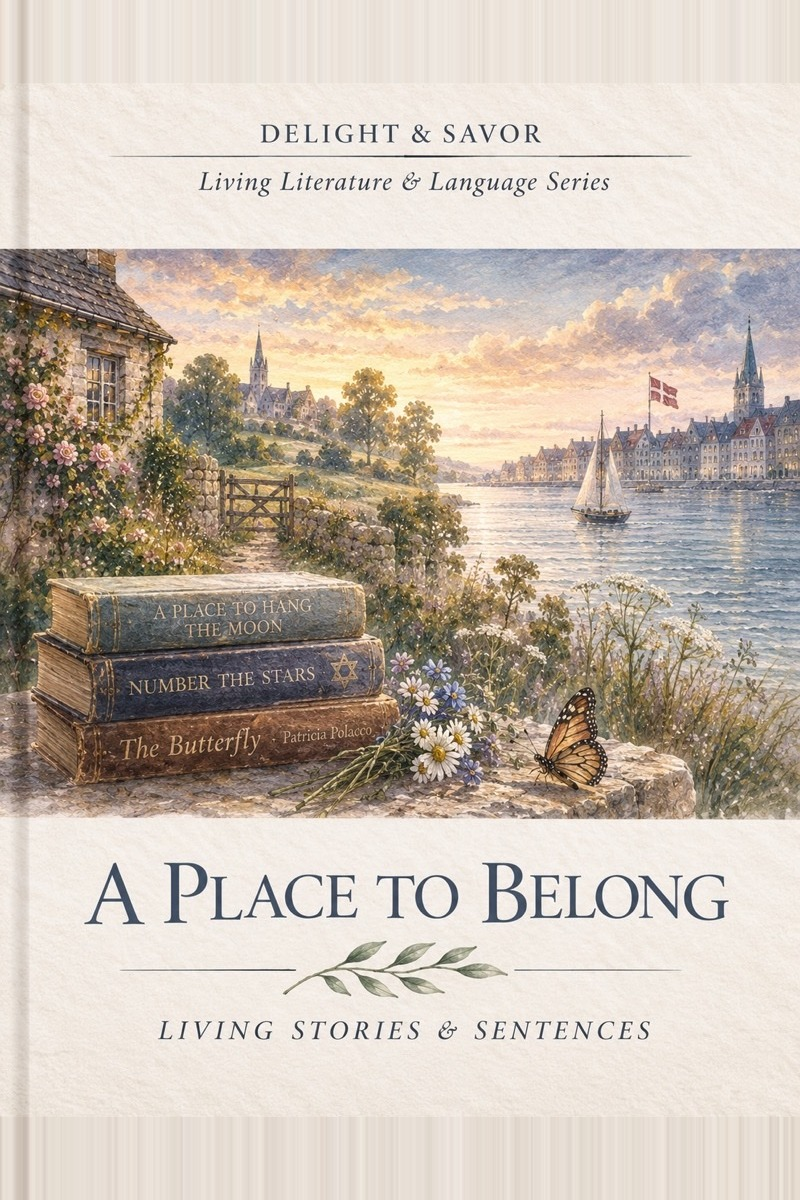
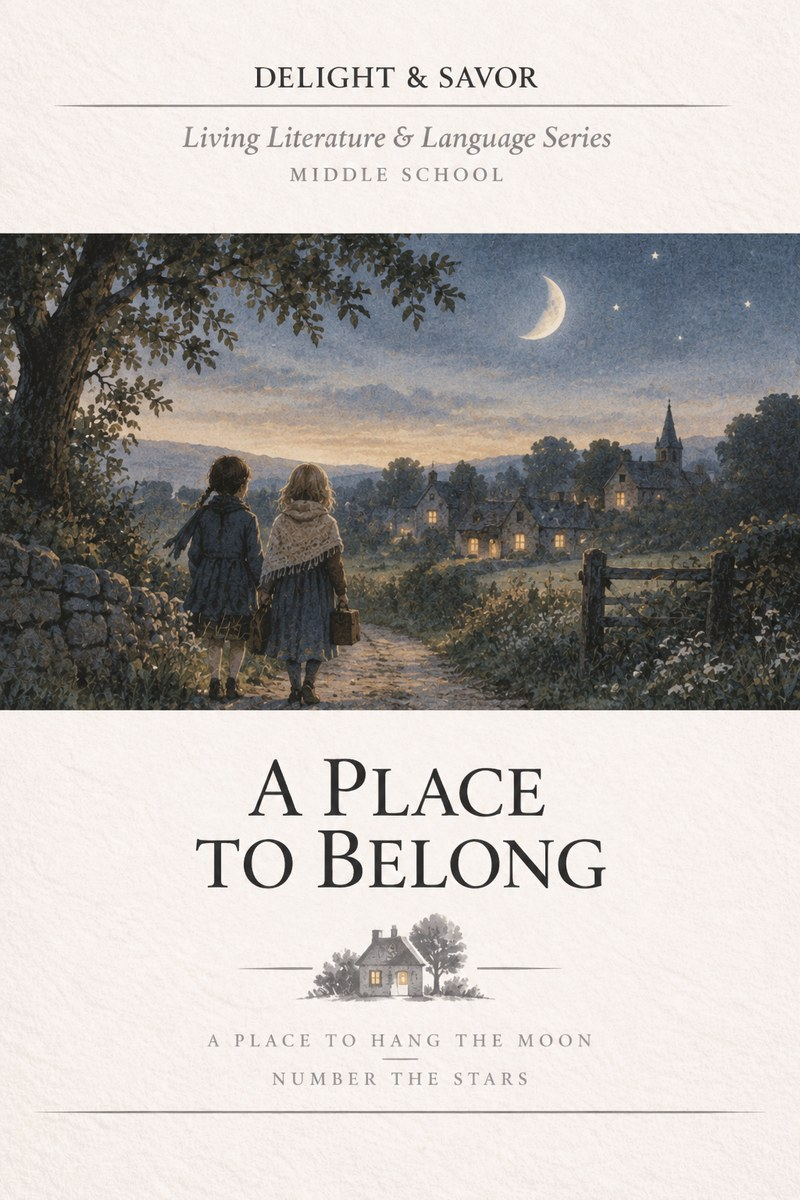
Match the site to the courses In the Margin actually offers
Margin's library is the source of truth
(margin.delightandsavor.com/preview.html) and it has been consolidated:
four courses, two of them year-long. The curriculum shelf still listed
the old seven, from before Macbeth and Wuthering Heights became terms
inside The Art of Tragedy, and Poetry, The Old Man and the Sea and A
Midsummer Night's Dream became terms inside The Art of Attention.

Three of those seven cards pointed at href="#" and did nothing:
Macbeth, Wuthering Heights and A Place to Belong.

The shelf is now the canonical four, with Margin's own names and
subtitles:

  The Art of Tragedy    Macbeth & Wuthering Heights          Grades 9-12
  The Art of Attention  Poetry, Old Man, Midsummer           Grades 9-12
  A Place to Belong     A Place to Hang the Moon, Number...  Grades 6-8
  Of Mice and Men       Summer Foundations                   Grades 8-11

Covers: Art of Attention and A Place to Belong were showing older
artwork. Both replaced from Margin's canonical assets — the new ones
name the books each course contains and carry the right level. Tragedy
and Of Mice and Men already matched. Resized to the site's 800x1200
convention, and both came out smaller than the files they replaced.

Links: the two year courses now open their course app rather than a
single book's preview page, and every In the Margin link across the
site moves from in-the-margin.netlify.app to margin.delightandsavor.com
— including the "Also from Delight & Savor" footers in index, lately
[…]

diff --git a/index.html b/index.html
@@ -1689,7 +1689,7 @@
     <div class="family-apps" style="max-width:880px;margin:0 auto 1.6rem;padding:1.85rem 0 0;border-top:1px solid var(--ds-rule);text-align:center;">
     <p style="font-family:'Cormorant Garamond',serif;font-variant:small-caps;letter-spacing:0.13em;font-size:0.785rem;color:var(--ds-ink-soft);margin:0 0 1.15rem;">Also from Delight &amp; Savor</p>
     <div style="display:flex;gap:2.75rem;justify-content:center;align-items:flex-start;flex-wrap:wrap;">
-      <a href="https://in-the-margin.netlify.app" target="_blank" rel="noopener" style="display:inline-flex;flex-direction:column;align-items:center;gap:.55rem;text-decoration:none;color:var(--ds-ink-soft);font-family:'Cormorant Garamond',serif;font-size:0.95rem;letter-spacing:0.02em;">
+      <a href="https://margin.delightandsavor.com" target="_blank" rel="noopener" style="display:inline-flex;flex-direction:column;align-items:center;gap:.55rem;text-decoration:none;color:var(--ds-ink-soft);font-family:'Cormorant Garamond',serif;font-size:0.95rem;letter-spacing:0.02em;">
[1 lines of base64/hex data omitted]
       </a>
       <a href="https://tend-ds.netlify.app" target="_blank" rel="noopener" style="display:inline-flex;flex-direction:column;align-items:center;gap:.55rem;text-decoration:none;color:var(--ds-ink-soft);font-family:'Cormorant Garamond',serif;font-size:0.95rem;letter-spacing:0.02em;">

diff --git a/lately.html b/lately.html
@@ -136,7 +136,7 @@
   <div class="family-apps" style="max-width:880px;margin:2.5rem auto 0;padding:2rem 1.5rem 3.5rem;border-top:1px solid var(--line);text-align:center;">
     <p style="font-family:'Cormorant Garamond',serif;font-variant:small-caps;letter-spacing:.18em;font-size:.72rem;color:var(--muted);margin:0 0 1.15rem;">Also from Delight &amp; Savor</p>
     <div style="display:flex;gap:2.75rem;justify-content:center;align-items:flex-start;flex-wrap:wrap;">
-      <a href="https://in-the-margin.netlify.app" target="_blank" rel="noopener" style="display:inline-flex;flex-direction:column;align-items:center;gap:.55rem;text-decoration:none;color:var(--slate);font-family:'Cormorant Garamond',serif;font-size:.95rem;letter-spacing:.02em;">
+      <a href="https://margin.delightandsavor.com" target="_blank" rel="noopener" style="display:inline-flex;flex-direction:column;align-items:center;gap:.55rem;text-decoration:none;color:var(--slate);font-family:'Cormorant Garamond',serif;font-size:.95rem;letter-spacing:.02em;">
[1 lines of base64/hex data omitted]
       </a>
       <a href="https://tend-ds.netlify.app" target="_blank" rel="noopener" style="display:inline-flex;flex-direction:column;align-items:center;gap:.55rem;text-decoration:none;color:var(--slate);font-family:'Cormorant Garamond',serif;font-size:.95rem;letter-spacing:.02em;">

diff --git a/curriculum.html b/curriculum.html
@@ -573,12 +573,53 @@ const LEVEL_LABEL = {
 };
 
 const COURSES = [
+  /* The canonical list is In the Margin's own library:
+     margin.delightandsavor.com/preview.html — four courses, two of them
+     year-long. Macbeth, Wuthering Heights, The Old Man and the Sea and
+     A Midsummer Night's Dream are terms inside those years now, not
+     separate courses, so they are no longer listed on their own. */
+  {
+    id:"art-of-tragedy",
+    title:"The Art of Tragedy",
+    author:"Macbeth & Wuthering Heights",   /* esc() escapes this at render */
+    level:"high",
+    meta:"Year-long · Grades 9–12",
+    status:"avail",
+    cloth:"#37322B",
+    image:"/images/art-of-tragedy.jpg",
+    link:"https://margin.delightandsavor.com/art-of-tragedy/",
+    blurb:"A year on ambition and disordered love — Shakespeare's tragedy in the fall, Brontë's in the spring."
+  },
+  {
+    id:"art-of-attention",
+    title:"The Art of Attention",
+    author:"Poetry, The Old Man and the Sea, A Midsummer Night’s Dream",
+    level:"high",
+    meta:"Year-long · Grades 9–12",
+    status:"avail",
+    cloth:"#4E6149",
+    image:"/images/art-of-attention.jpg",
+    link:"https://margin.delightandsavor.com/art-of-attention/",
+    blurb:"A year of looking closely — poetry and Hemingway in the fall, Shakespeare's comedy in the spring."
+  },
+  {
+    id:"lss",
+    title:"A Place to Belong",
+    author:"A Place to Hang the Moon · Number the Stars",
+    level:"middle",
+    meta:"Thirty weeks · Grades 6–8",
+    status:"self",
+    cloth:"#4C6B8C",
+    image:"/images/a-place-to-belong.jpg",
+    link:"https://margin.delightandsavor.com/living-stories-preview.html",
+    blurb:"Living books and real writing for the middle years, ending in a first research paper."
+  },
   {
     id:"summer-foundations",
-    title:"Summer Foundations",
-    author:"Of Mice and Men",
+    title:"Of Mice and Men",
+    author:"Summer Foundations · Steinbeck",
     level:"summer",
-    meta:"Steinbeck · 6 weeks",
+    meta:"Six weeks · Grades 8–11",
     status:"go",
     cloth:"#6B5240",
     image:"/images/cover-omam.jpg",
@@ -592,78 +633,6 @@ const COURSES = [
       cta:"Take a deeper look",
       ctaHref:"/Summer-Foundations-Sales-Page.html"
     }
-  },
-  {
-    id:"art-of-attention",
-    title:"Art of Attention",
-    author:"Poetry & The Old Man and the Sea",
-    level:"high",
-    meta:"Year-long · In the Margin",
-    status:"avail",
-    cloth:"#4E6149",
-    image:"/images/art-of-attention.jpg",
-    link:"https://in-the-margin.netlify.app/",
-    blurb:"A year of poetry and Hemingway — close reading, narration, the Great Conversation."
-  },
-  {
-    id:"macbeth",
-    title:"Macbeth",
-    author:"Shakespeare",
-    level:"high",
-    meta:"The Tragic Hero",
-    status:"avail",
-    cloth:"#37322B",
-    image:"/images/macbeth.jpg",
-    link:"#",
-    blurb:"Ambition and disordered loves, read beside Augustine."
-  },
-  {
-    id:"wuthering-heights",
-    title:"Wuthering Heights",
-    author:"Emily Brontë",
-    level:"high",
-    meta:"The Anti-Hero",
-    status:"avail",
-    cloth:"#5D6C61",
-    image:"/images/wuthering-heights.jpg",
-    link:"#",
-    blurb:"Wild, strange, unforgettable — the anti-hero studied in full."
-  },
-  {
-    id:"lss",
-    title:"A Place to Belong",
-    author:"Living Stories & Sentences · Series 1",
-    level:"middle",
-    meta:"32 weeks · self-paced",
-    status:"self",
-    cloth:"#4C6B8C",
-    image:"/images/a-place-to-belong.jpg",
-    link:"#",
-    blurb:"Living literature and sentence-craft for the middle years, fully self-paced."
-  },
-  {
-    id:"old-man",
-    title:"The Old Man and the Sea",
-    author:"Hemingway",
-    level:"high",
-    meta:"Companion study",
-    status:"soon",
-    cloth:"#6C6A47",
-    image:"/images/poetry-old-man.jpg",
-    link:"https://in-the-margin.netlify.app/old-man-preview.html",
-    blurb:"Hemingway’s sea, scaffolded for honors-ready writing. Coming Fall 2026."
-  },
-  {
-    id:"midsummer",
-    title:"A Midsummer Night’s Dream",
-    author:"Shakespeare",
-    level:"high",
-    meta:"Comedy",
-    status:"soon",
-    cloth:"#7C5F7C",
-    image:"/images/midsummer.jpg",
-    link:"https://in-the-margin.netlify.app/midsummer-preview.html",
-    blurb:"Shakespeare’s comedy, taught the Charlotte Mason way. Coming Jan 2027."
   }
 ];
 

diff --git a/Shop.html b/Shop.html
@@ -199,7 +199,7 @@ html body .ml-form-embedContainer .ml-form-embedWrapper .ml-form-embedBody
   <div class="grid">
 
     <!-- Year One · The Art of Tragedy -->
-    <a class="product" href="https://in-the-margin.netlify.app/macbeth-preview.html">
+    <a class="product" href="https://margin.delightandsavor.com/art-of-tragedy/">
       <div class="shot"><img src="images/art-of-tragedy.jpg" alt="The Art of Tragedy" loading="lazy"></div>
       <div class="body">
         <div class="tier">Grades 9&ndash;12 &middot; Year One</div>
@@ -217,7 +217,7 @@ html body .ml-form-embedContainer .ml-form-embedWrapper .ml-form-embedBody
     </a>
 
     <!-- Year Two · The Art of Attention -->
-    <a class="product" href="https://in-the-margin.netlify.app/old-man-preview.html">
+    <a class="product" href="https://margin.delightandsavor.com/art-of-attention/">
       <div class="shot"><img src="images/art-of-attention.jpg" alt="The Art of Attention" loading="lazy"></div>
       <div class="body">
         <div class="tier">Grades 9&ndash;12 &middot; Year Two</div>
@@ -235,7 +235,7 @@ html body .ml-form-embedContainer .ml-form-embedWrapper .ml-form-embedBody
     </a>
 
     <!-- Middle School · A Place to Belong -->
-    <a class="product" href="https://in-the-margin.netlify.app/living-stories-preview.html">
+    <a class="product" href="https://margin.delightandsavor.com/living-stories-preview.html">
       <div class="shot"><img src="images/a-place-to-belong.jpg" alt="A Place to Belong" loading="lazy"></div>
       <div class="body">
         <div class="tier">Middle School &middot; Living Stories &amp; Sentences</div>
@@ -275,7 +275,7 @@ html body .ml-form-embedContainer .ml-form-embedWrapper .ml-form-embedBody
   <div class="grid">
 
     <!-- LSS live cohort — OPEN -->
-    <a class="product" href="https://in-the-margin.netlify.app/enroll.html?unit=lss">
+    <a class="product" href="https://margin.delightandsavor.com/enroll.html?unit=lss">
       <div class="shot"><img src="images/a-place-to-belong.jpg" alt="Living Stories &amp; Sentences — Live Cohort" loading="lazy"></div>
       <div class="body">
         <div class="tier">Middle School &middot; Live with Kim</div>
@@ -292,7 +292,7 @@ html body .ml-form-embedContainer .ml-form-embedWrapper .ml-form-embedBody
     </a>
 
     <!-- Of Mice and Men live cohort — CLOSED, but the preview stays readable -->
-    <a class="product" href="https://in-the-margin.netlify.app/of-mice-and-men-preview.html">
+    <a class="product" href="https://margin.delightandsavor.com/of-mice-and-men-preview.html">
       <div class="shot"><img src="images/cover-omam.jpg" alt="Of Mice and Men — Live Cohort" loading="lazy"></div>
       <div class="body">
         <div class="tier">Summer &middot; Live with Kim</div>

diff --git a/netlify/functions/anthropic.js b/netlify/functions/anthropic.js
@@ -61,7 +61,7 @@ IN THE MARGIN APP:
 - Student companion app — works on phone, tablet, or laptop
 - Students save it to their home screen
 - Features: weekly assignment tracker, Reading Companion, Writing Table, Narration Coach (Find It · Follow It · Frame It), Literary Devices reference, Commonplace Journal
-- URL: in-the-margin.netlify.app
+- URL: margin.delightandsavor.com
 
 TEND — Charlotte Mason Homeschool Planner App:
 - A separate digital planner app for homeschool families

diff --git a/nav.js b/nav.js
@@ -167,7 +167,7 @@
   <div class="footer-apps">
     <p>Also from Delight &amp; Savor</p>
     <div class="footer-apps-row">
-      <a href="https://in-the-margin.netlify.app" target="_blank" rel="noopener">
+      <a href="https://margin.delightandsavor.com" target="_blank" rel="noopener">
         <img src="images/margin_logo-rounded-512.png" alt="In the Margin app icon" />
         In the Margin
       </a>
